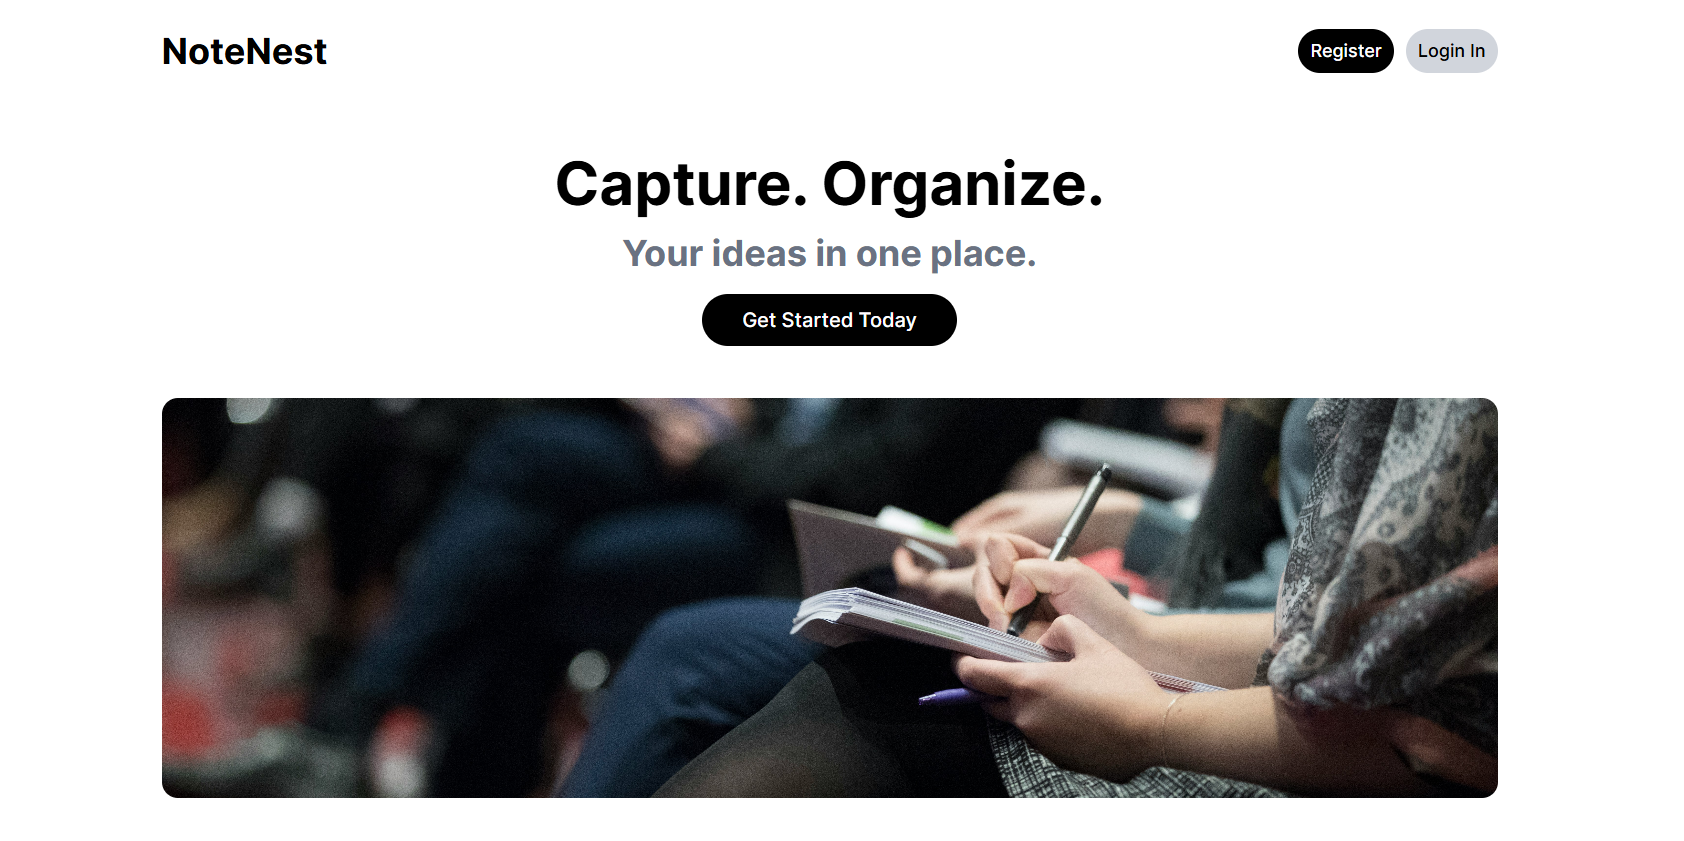
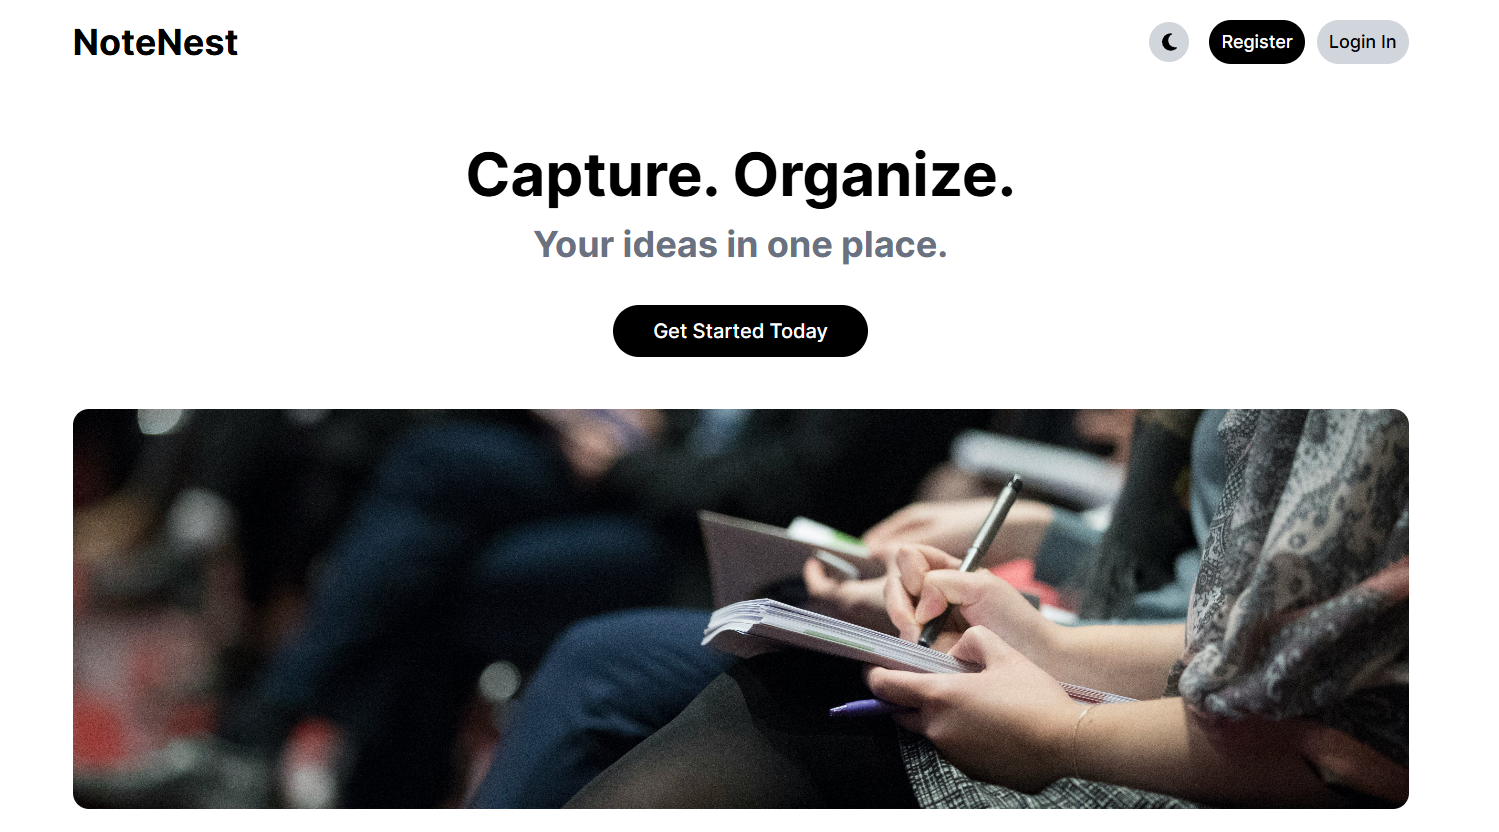
updated - loading state for notes - fixed bg image for auth page - updated readme

diff --git a/frontend/src/pages/Notes/Notes.tsx b/frontend/src/pages/Notes/Notes.tsx
@@ -1,5 +1,6 @@
 import { FontAwesomeIcon } from "@fortawesome/react-fontawesome";
 import {
+  faL,
   faMagnifyingGlass,
   faPlus,
   faXmark,
@@ -27,6 +28,7 @@ const Notes = () => {
   const [notes, setNotes] = useState<Note[]>([]);
   const [searchQuery, setSearchQuery] = useState("");
   const [noteToDelete, setNoteToDelete] = useState<Note | null>(null);
+  const [loading, setLoading] = useState(false);
 
   const {
     errorText: errorPopUpText,
@@ -37,6 +39,7 @@ const Notes = () => {
   useEffect(() => {
     const fetchNotes = async () => {
       try {
+        setLoading(true);
         const response = await api.get("/notes");
         setNotes(response.data);
       } catch (err) {
@@ -48,6 +51,8 @@ const Notes = () => {
         setErrorPopUpText(errorMsg);
         console.error(error);
         console.error(error);
+      } finally {
+        setLoading(false);
       }
     };
 
@@ -100,33 +105,37 @@ const Notes = () => {
             )}
           </div>
 
-          <div className="w-full flex flex-col gap-5 lg:grid lg:grid-cols-2 xl:grid-cols-3 lg:gap-15">
-            {filteredNotes.length > 0 ? (
-              filteredNotes.map((item) => (
-                <NoteComponent
-                  key={item._id}
-                  item={item}
-                  noteToDelete={noteToDelete}
-                  setNoteToDelete={setNoteToDelete}
-                />
-              ))
-            ) : searchQuery ? (
-              <div className="col-span-full text-center text-gray-600 text-lg italic dark:text-white">
-                No results found for "
-                <span className="font-semibold">{searchQuery}</span>"
-              </div>
-            ) : null}
-            {!searchQuery && (
-              <Link
-                to="/notes/create"
-                className="flex items-center justify-center border border-gray-500 min-h-50 lg:min-h-75 h-full w-full border-dotted rounded-2xl hover:border-black hover:border-2 hover:font-bold transition-animation"
-              >
-                <span className="">
-                  Create New Note <FontAwesomeIcon icon={faPlus} />
-                </span>
-              </Link>
-            )}
-          </div>
+          {loading ? (
+            <div>Loading...</div>
+          ) : (
+            <div className="w-full flex flex-col gap-5 lg:grid lg:grid-cols-2 xl:grid-cols-3 lg:gap-15">
+              {filteredNotes.length > 0 ? (
+                filteredNotes.map((item) => (
+                  <NoteComponent
+                    key={item._id}
+                    item={item}
+                    noteToDelete={noteToDelete}
+                    setNoteToDelete={setNoteToDelete}
+                  />
+                ))
+              ) : searchQuery ? (
+                <div className="col-span-full text-center text-gray-600 text-lg italic dark:text-white">
+                  No results found for "
+                  <span className="font-semibold">{searchQuery}</span>"
+                </div>
+              ) : null}
+              {!searchQuery && (
+                <Link
+                  to="/notes/create"
+                  className="flex items-center justify-center border border-gray-500 min-h-50 lg:min-h-75 h-full w-full border-dotted rounded-2xl hover:border-black hover:border-2 hover:font-bold transition-animation dark:border-gray-300 dark:hover:border-white"
+                >
+                  <span className="">
+                    Create New Note <FontAwesomeIcon icon={faPlus} />
+                  </span>
+                </Link>
+              )}
+            </div>
+          )}
         </main>
       </div>
     </>

diff --git a/frontend/src/pages/Auth.tsx b/frontend/src/pages/Auth.tsx
@@ -32,7 +32,7 @@ const Auth = () => {
 
   return (
     <div className="lg:flex">
-      <div className="bg-[url(../images/auth/auth.jpg)] bg-cover bg-no-repeat bg-center h-[35vh] lg:min-h-screen lg:w-[40%]"></div>
+      <div className="bg-[url(src/images/auth/auth.jpg)] bg-cover bg-no-repeat bg-center h-[35vh] lg:min-h-screen lg:w-[40%]"></div>
 
       <div className="py-10 p-5 lg:flex lg:flex-col lg:justify-center lg:items-center lg:w-[60%]">
         <header className="flex flex-col gap-4 mb-4">

diff --git a/frontend/src/pages/Loading.tsx b/frontend/src/pages/Loading.tsx
@@ -1,7 +1,7 @@
 const Loading = () => {
   return (
     <main className="flex items-center justify-center h-screen font-semibold">
-      <h1 className="text-4xl">Loading...</h1>
+      <h1 className="text-4xl">Loading</h1>
       <p className="text-lg">Please be patient</p>
     </main>
   );

diff --git a/README.md b/README.md
@@ -16,6 +16,7 @@ _Note: The backend is hosted on Render's free tier, which may take 50 seconds or
 - **CRUD for Notes** - Users can create, view, edit, and delete personal notes through a responsive and intuitive interface.
 - **User-Specific Data Access** - Each user can access only their own notes. All note-related operations are securely scoped to the authenticated user.
 - **Search Functionality** – Quickly find notes with a built-in search feature for efficient navigation
+- **Light and Dark Mode** – Seamlessly switch between light and dark themes to match your environment or preference.
 
 ## Tech Stack
 
